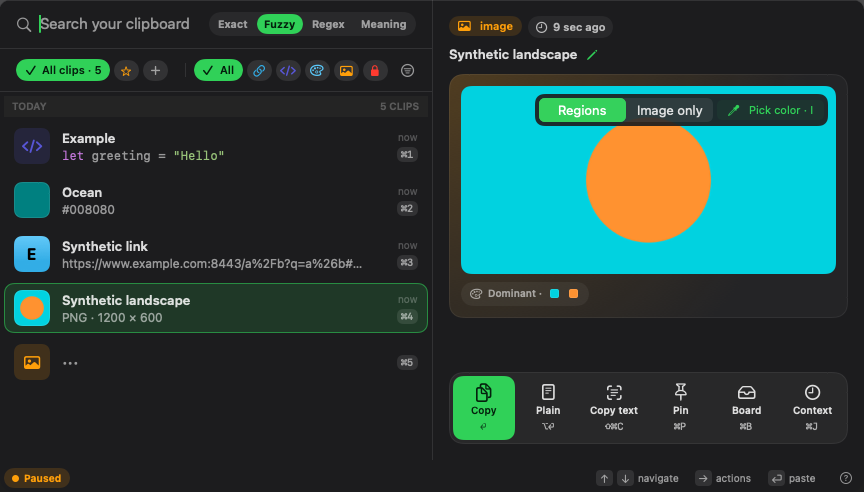
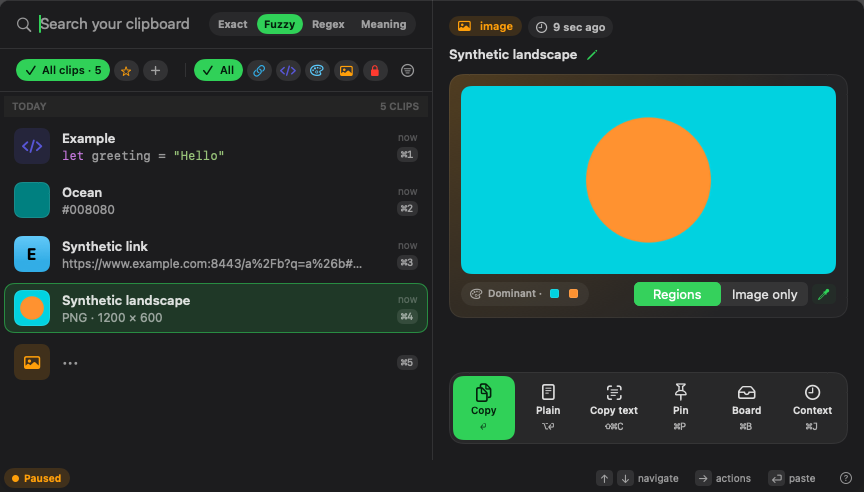
chore(release): prepare v0.11.1

Changed region(s): [[0.5938, 0.1829, 0.9688, 0.2744], [0.7188, 0.5488, 0.9688, 0.6402]]

diff --git a/site/index.html b/site/index.html
@@ -10,13 +10,13 @@
 <meta property="og:title" content="gancho — your clipboard, everywhere" />
 <meta property="og:description" content="A private-by-design clipboard history and snippet library for Mac, iPhone, and iPad. Local-first, encrypted, on-device AI." />
 <meta property="og:url" content="https://gancho.app/" />
-<meta property="og:image" content="https://gancho.app/assets/v0.11.0-release.png" />
+<meta property="og:image" content="https://gancho.app/assets/v0.11.1-release.png" />
 <meta property="og:image:width" content="864" />
 <meta property="og:image:height" content="492" />
-<meta property="og:image:alt" content="Gancho v0.11.0 on macOS" />
+<meta property="og:image:alt" content="Gancho v0.11.1 on macOS" />
 <meta name="twitter:card" content="summary_large_image" />
-<meta name="twitter:image" content="https://gancho.app/assets/v0.11.0-release.png" />
-<meta name="twitter:image:alt" content="Gancho v0.11.0 on macOS" />
+<meta name="twitter:image" content="https://gancho.app/assets/v0.11.1-release.png" />
+<meta name="twitter:image:alt" content="Gancho v0.11.1 on macOS" />
 <link rel="icon" href="assets/gancho-mark.svg" type="image/svg+xml" />
 <link rel="stylesheet" href="styles.css" />
 <style>
@@ -526,21 +526,21 @@
 <section class="band band-tint" id="latest-release">
   <div class="wrap release-grid">
     <div class="release-copy">
-      <span class="kicker" data-i18n="rel.kicker">Disponible · v0.11.0</span>
-      <h2 class="h2" data-i18n="rel.title">El panel rehecho, pegado en serie y agentes a la vista.</h2>
-      <p class="lede" data-i18n="rel.lede">La descarga v0.11.0 rehace el panel, el peek, la Biblioteca, Ajustes y las apps de iPhone y iPad, y agrega formas nuevas de reutilizar lo que copias. Necesita un Mac con Apple Silicon y macOS 26; los Mac con Intel o macOS 15 se quedan en v0.10.2.</p>
+      <span class="kicker" data-i18n="rel.kicker">En preparación · v0.11.1</span>
+      <h2 class="h2" data-i18n="rel.title">Ventanas al frente y un reposo más tranquilo.</h2>
+      <p class="lede" data-i18n="rel.lede">La candidata v0.11.1 abre las ventanas de Gancho delante de la app que usas, con el teclado, y trabaja menos mientras espera en la barra de menús. Aún no está publicada; la descarga actual sigue siendo v0.11.0.</p>
       <ul class="release-list">
-        <li data-i18n="rel.1"><b>Pegado en serie:</b> la pila marca lo que ya pegaste, muestra «3 de 5» y sigue a la vista con el panel cerrado.</li>
-        <li data-i18n="rel.2"><b>Una sola lista de transformaciones:</b> ⌘T reúne acciones, recetas y Pegado inteligente, y ves el antes y el después antes de pegar.</li>
-        <li data-i18n="rel.3"><b>Snippets que se llenan solos:</b> {clipboard}, {date} y {cursor} se insertan desde el editor, y lo que más reutilizas se sugiere como snippet.</li>
-        <li data-i18n="rel.4"><b>Agentes a la vista:</b> cuando un cliente de IA local lee tus clips, un aviso dice cuál, qué leyó y ofrece Revocar.</li>
-        <li data-i18n="rel.5"><b>Secretos en un solo dispositivo:</b> contraseñas y claves ya no se sincronizan, y el Centro de privacidad te deja verificar el cifrado.</li>
+        <li data-i18n="rel.1"><b>Ventanas al frente:</b> Ajustes, la Biblioteca, el Centro de privacidad, Gancho Pro y la revisión del texto reconocido se abren encima de la app que usas y reciben el teclado.</li>
+        <li data-i18n="rel.2"><b>Teclado para la captura de pantalla:</b> Retorno y Escape responden la explicación previa al permiso, no la app en la que escribías.</li>
+        <li data-i18n="rel.3"><b>Un reposo más tranquilo:</b> Gancho sigue la captura, la pantalla compartida y su icono en la barra de menús por eventos, sin temporizadores que lo despierten.</li>
+        <li data-i18n="rel.4"><b>Avisos que respetan VoiceOver:</b> el aviso de telemetría y el selector de tableros no dejan leer ni accionar el panel de atrás hasta que respondas.</li>
+        <li data-i18n="rel.5"><b>Correcciones:</b> los controles de una imagen quedan debajo de ella, el filtro por app conserva su lista y exportar un archivo ya no lo carga entero en memoria.</li>
       </ul>
-      <a class="btn btn-ghost" href="https://github.com/johnny4young/gancho/releases/tag/v0.11.0" data-i18n="rel.cta">Ver notas y descargar v0.11.0</a>
+      <a class="btn btn-ghost" href="https://github.com/johnny4young/gancho/blob/main/docs/releases/v0.11.1.md" data-i18n="rel.cta">Leer las notas de la candidata v0.11.1</a>
     </div>
     <figure class="release-shot">
-      <img src="assets/v0.11.0-release.png" width="864" height="492" loading="lazy" decoding="async" alt="Panel de Gancho con modos de búsqueda y el peek de un enlace / Gancho panel with search modes and a link peek" />
-      <figcaption data-i18n="rel.caption">v0.11.0 en macOS con datos sintéticos; no sustituye las pruebas del DMG publicado.</figcaption>
+      <img src="assets/v0.11.1-release.png" width="864" height="492" loading="lazy" decoding="async" alt="Panel de Gancho con modos de búsqueda y el peek de un enlace / Gancho panel with search modes and a link peek" />
+      <figcaption data-i18n="rel.caption">Candidata v0.11.1 en macOS con datos sintéticos; no es evidencia de una versión publicada.</figcaption>
     </figure>
   </div>
 </section>
@@ -551,20 +551,20 @@
     <div class="sec-head">
       <span class="kicker" data-i18n="evo.kicker">Evolución reciente</span>
       <h2 class="h2" data-i18n="evo.title">Cada versión amplía lo que Gancho puede recordar por ti.</h2>
-      <p class="lede" data-i18n="evo.lede">El sync que ya no se atasca desde 0.10.1 y los clips recuperados de 0.10.2 son la base sobre la que 0.11.0 rehace cada pantalla.</p>
+      <p class="lede" data-i18n="evo.lede">0.10.2 recuperó los clips tras un cambio de llave y 0.11.0 rehízo cada pantalla; sobre esa base, 0.11.1 pule lo que abres desde la barra de menús.</p>
     </div>
     <div class="evolution-grid">
+      <article class="milestone-card">
+        <div class="milestone-meta"><span class="milestone-version">0.11.0</span><span class="milestone-date">3 Nov 2026</span></div>
+        <h3 data-i18n="evo.v0110.t">El panel rehecho, pegado en serie y agentes a la vista.</h3>
+        <p data-i18n="evo.v0110.p">El panel, el peek, la Biblioteca, Ajustes y las apps de iPhone y iPad rehechos, con pegado en serie, una sola lista de Transform y snippets que se llenan solos.</p>
+        <a class="milestone-link" href="#release-0-11-0" data-i18n="evo.v0110.cta">Ver notas de 0.11.0 →</a>
+      </article>
       <article class="milestone-card">
         <div class="milestone-meta"><span class="milestone-version">0.10.2</span><span class="milestone-date">16 Oct 2026</span></div>
         <h3 data-i18n="evo.v0102.t">Clips recuperados tras un cambio de llave.</h3>
         <p data-i18n="evo.v0102.p">Copiar de nuevo repara el archivo, iCloud restaura lo sincronizado y el Centro de privacidad cuenta lo que queda.</p>
         <a class="milestone-link" href="#release-0-10-2" data-i18n="evo.v0102.cta">Ver notas de 0.10.2 →</a>
-      </article>
-      <article class="milestone-card">
-        <div class="milestone-meta"><span class="milestone-version">0.10.1</span><span class="milestone-date">16 Oct 2026</span></div>
-        <h3 data-i18n="evo.v0101.t">El sync de iCloud que no se atasca.</h3>
-        <p data-i18n="evo.v0101.p">Un clip ilegible en tu Mac ya no detiene todas las subidas: se salta, queda pendiente y Problemas recientes lo cuenta.</p>
-        <a class="milestone-link" href="#release-0-10-1" data-i18n="evo.v0101.cta">Ver notas de 0.10.1 →</a>
       </article>
     </div>
   </div>
@@ -1017,6 +1017,10 @@
       <p class="lede" data-i18n="log.lede">Explora cada versión, de la más reciente a la primera. Abre solo el hito que quieras conocer; sus metadatos y artefactos se verifican juntos en CI.</p>
     </div>
     <div class="log">
+      <details class="release-detail" id="release-0-11-0">
+        <summary><span class="log-meta"><span class="ver">0.11.0</span><span class="dt">3 Nov 2026</span></span><span class="release-summary-title" data-i18n="evo.v0110.t">El panel rehecho, pegado en serie y agentes a la vista.</span><svg class="release-chevron i" width="20" height="20" viewBox="0 0 24 24" fill="none" stroke="currentColor" stroke-width="2" stroke-linecap="round" stroke-linejoin="round" aria-hidden="true"><path d="m6 9 6 6 6-6"/></svg></summary>
+        <div class="log-body"><ul><li data-i18n="evo.v0110.p">El panel, el peek, la Biblioteca, Ajustes y las apps de iPhone y iPad rehechos, con pegado en serie, una sola lista de Transform y snippets que se llenan solos.</li><li><a href="https://github.com/johnny4young/gancho/releases/tag/v0.11.0" data-i18n="evo.v0110.cta">Ver notas de 0.11.0 →</a></li></ul></div>
+      </details>
       <details class="release-detail" id="release-0-10-2">
         <summary><span class="log-meta"><span class="ver">0.10.2</span><span class="dt">16 Oct 2026</span></span><span class="release-summary-title" data-i18n="evo.v0102.t">Clips recuperados tras un cambio de llave.</span><svg class="release-chevron i" width="20" height="20" viewBox="0 0 24 24" fill="none" stroke="currentColor" stroke-width="2" stroke-linecap="round" stroke-linejoin="round"><path d="m6 9 6 6 6-6"/></svg></summary>
         <div class="log-body"><ul><li data-i18n="evo.v0102.p">Copiar de nuevo repara el archivo, iCloud restaura lo sincronizado y el Centro de privacidad cuenta lo que queda.</li><li><a href="https://github.com/johnny4young/gancho/releases/tag/v0.10.2" data-i18n="evo.v0102.cta">Ver notas de 0.10.2 →</a></li></ul></div>
@@ -1246,15 +1250,15 @@
       "panel.search": "Search your clipboard…", "panel.foot": "Local · encrypted on this Mac",
       "clip.code.t": "useEffect cleanup", "clip.secret.t": "OpenAI API key", "clip.url.t": "Privacy policy", "clip.color.t": "Brand green", "clip.image.t": "Launch mark", "clip.image.p": "PNG · 248 KB · 1640×1024 · encrypted",
       "trust.1": "Local-first", "trust.2": "Encrypted on device", "trust.3": "No middle servers", "trust.4": "No content telemetry",
-      "rel.kicker": "Available now · v0.11.0", "rel.title": "A rebuilt panel, paste runs and agents in plain view.",
-      "rel.lede": "The v0.11.0 download rebuilds the panel, the peek, the Library, Settings and the iPhone and iPad apps, and adds new ways to reuse what you copy. It needs an Apple Silicon Mac with macOS 26; Macs on Intel or macOS 15 stay on v0.10.2.",
-      "rel.1": "<b>Paste runs:</b> the stack checks what you already pasted, reads “3 of 5” and stays in view with the panel closed.",
-      "rel.2": "<b>One Transform list:</b> ⌘T holds actions, recipes and Smart paste, and shows the before and after before you paste.",
-      "rel.3": "<b>Snippets that fill themselves:</b> {clipboard}, {date} and {cursor} insert from the editor, and what you reuse most is suggested as a snippet.",
-      "rel.4": "<b>Agents in plain view:</b> when a local AI client reads your clips, a notice says which one and what it read, and offers Revoke.",
-      "rel.5": "<b>Secrets on one device:</b> passwords and keys no longer sync, and the Privacy Center lets you verify the encryption.",
-      "rel.cta": "Read notes and download v0.11.0",
-      "rel.caption": "v0.11.0 on macOS with synthetic data; this is not a substitute for testing the published DMG.",
+      "rel.kicker": "In preparation · v0.11.1", "rel.title": "Windows in front, a quieter idle.",
+      "rel.lede": "The v0.11.1 candidate opens Gancho's windows in front of the app you're using, with the keyboard, and does less work while it waits in the menu bar. It isn't published yet; the current download is still v0.11.0.",
+      "rel.1": "<b>Windows in front:</b> Settings, the Library, the Privacy Center, Gancho Pro and the recognized-text review open on top of the app you're using and take the keyboard.",
+      "rel.2": "<b>Keyboard for screen capture:</b> Return and Escape answer the explanation before the permission, not the app you were typing in.",
+      "rel.3": "<b>A quieter idle:</b> Gancho follows capture, screen sharing and its menu-bar icon through events, without timers waking it up.",
+      "rel.4": "<b>Prompts that respect VoiceOver:</b> the telemetry prompt and the board picker keep the panel behind them from being read or used until you answer.",
+      "rel.5": "<b>Fixes:</b> an image's controls sit below it, the app filter keeps its list and exporting an archive no longer loads it all into memory.",
+      "rel.cta": "Read the v0.11.1 candidate notes",
+      "rel.caption": "v0.11.1 candidate on macOS with synthetic data; this is not evidence of a published release.",
       "shots.kicker": "What it looks like", "shots.title": "Real app screens, with synthetic data.",
       "shots.lede": "Captured from the app's UI tests: only Gancho's own window, and only sample content.",
       "shots.1": "Free manual OCR: the image's text appears beside it, ready to copy, open or translate.",
@@ -1266,6 +1270,9 @@
       "shots.n1": "A link's host and path set large, parsed on your Mac without fetching anything. The main button reads Copy because the capture runs without Accessibility; with it, the button names the app it pastes into.",
       "shots.n2": "⌘G shows the history as cards; a color opens with its HEX, RGB, HSL and Swift values and its contrast.",
       "shots.n3": "Optional ambient colour: a faint wash of the selected image's own colour, off by default. An image's peek lists its dominant colours.",
+      "evo.v0110.t": "A rebuilt panel, paste runs and agents in plain view.",
+      "evo.v0110.p": "The panel, the peek, the Library, Settings and the iPhone and iPad apps rebuilt, with paste runs, one Transform list and snippets that fill themselves.",
+      "evo.v0110.cta": "Read 0.11.0 release notes →",
       "evo.v0102.t": "Clips recovered after a key change.",
       "evo.v0102.p": "Copying again repairs the file, iCloud restores what was synced and the Privacy Center counts what's left.",
       "evo.v0102.cta": "Read 0.10.2 release notes →",
@@ -1294,7 +1301,7 @@
       "evo.v081.p": "A Pro purchase survives transient StoreKit gaps, with more predictable CloudKit recovery.",
       "evo.v081.cta": "Read 0.8.1 release notes →",
       "evo.kicker": "Recent evolution", "evo.title": "Every release expands what Gancho can remember for you.",
-      "evo.lede": "The sync that no longer gets stuck since 0.10.1 and the clips recovered in 0.10.2 are the base on which 0.11.0 rebuilds every screen.",
+      "evo.lede": "0.10.2 recovered clips after a key change and 0.11.0 rebuilt every screen; on that base, 0.11.1 polishes what you open from the menu bar.",
       "priv.kicker": "Privacy invariants", "priv.title": "It earns your trust before it earns your convenience.",
       "priv.lede": "gancho treats what you copy as private data. It observes metadata first, vetoes sensitive pasteboards before reading them, and keeps logs and diagnostics content-free.",
       "priv.c1.t": "Veto before read", "priv.c1.p": "Password-manager, transient, concealed, and auto-generated types are rejected before gancho reads a payload.", "priv.c1.tag": "Sensitive → skipped",

diff --git a/scripts/homebrew/gancho.rb b/scripts/homebrew/gancho.rb
@@ -10,7 +10,7 @@
 class Gancho < Formula
   desc "Privacy-first clipboard CLI and local MCP server for Gancho"
   homepage "https://gancho.app/"
-  version "0.11.0"
+  version "0.11.1"
   url "https://github.com/johnny4young/gancho/archive/refs/tags/v#{version}.tar.gz"
   sha256 "0000000000000000000000000000000000000000000000000000000000000000"
   license "MIT"

diff --git a/docs/PRODUCT-TRUTH.md b/docs/PRODUCT-TRUTH.md
@@ -38,7 +38,7 @@ security, architecture, release notes, and App Store copy.
 | Batch panel workflow | `PanelSelection`, `DeletionCoordinator`, `ClipDragPayload` | macOS supports range or discontiguous selection, batch stack/board/delete actions with shared Undo, and a de-duplicated multi-file drag when every selected clip is a safe file reference | Selection, deletion, drag-payload, and focused macOS UI tests |
 | Panel display preferences | `PanelController`, `PanelDisplayPreferences`, macOS General Settings | The Mac panel is solid by default with an optional translucent Liquid Glass background, edge-resizable, offers a Compact/Standard/Large Panel size picker that shows the active preset, remembers manual geometry, and scales its text, tiles and dock glyphs with a persistent three-level preference | Display-preference unit tests, a macOS UI test that measures row height per level, and the persistence smoke |
 | Package topology | `Packages/GanchoKit/Package.swift` | One package exposes eight libraries plus the `gancho` CLI | `ReleaseMetadataTests`, `scripts/check-product-truth.sh` |
-| Current direct download | GitHub release `v0.11.0` and `docs/releases/v0.11.0.md` | The published build 22 requires Apple Silicon and macOS 26; a fresh direct install is Free and local-only until eligible Pro activation. Manual OCR, visual Library cards, saved filters, combined text, secure direct-channel Pro activation, outbound privacy, durable shares, sync receive/upload fixes, the redesigned Mac panel (one toolbar, hero peek with an action dock, motion behind Reduce Motion, optional ambient colour, ⌘G gallery), snippet drafts that survive Library refreshes, a Text size preference that scales the panel, content-free diagnostics for two formerly silent sync failures, text recipes, meaning suggestions, selected context, installed-pair translation, the solid newest-first panel, a Library that stays current while open, and the review's privacy, sync, contrast and keyboard hardening, iCloud uploads that keep moving when one clip's local data cannot be read, and repair of content left under an earlier key (re-sealing on re-capture, iCloud restore of synced clips, a Privacy Center count with local-only removal), the rebuilt panel, peek, Library, Settings and iOS apps, and one encrypted CloudKit field, `Clip.parts`, are included | Published tag/assets and release record, checked separately from source-version and candidate QA gates |
+| Current direct download | GitHub release `v0.11.0` and `docs/releases/v0.11.0.md` | The published build 22 requires Apple Silicon and macOS 26; a fresh direct install is Free and local-only until eligible Pro activation. Manual OCR, visual Library cards, saved filters, combined text, secure direct-channel Pro activation, outbound privacy, durable shares, sync receive/upload fixes, the redesigned Mac panel (one toolbar, hero peek with an action dock, motion behind Reduce Motion, optional ambient colour, ⌘G gallery), snippet drafts that survive Library refreshes, a Text size preference that scales the panel, content-free diagnostics for two formerly silent sync failures, text recipes, meaning suggestions, selected context, installed-pair translation, the solid newest-first panel, a Library that stays current while open, and the review's privacy, sync, contrast and keyboard hardening, iCloud uploads that keep moving when one clip's local data cannot be read, and repair of content left under an earlier key (re-sealing on re-capture, iCloud restore of synced clips, a Privacy Center count with local-only removal), the rebuilt panel, peek, Library, Settings and iOS apps, and one encrypted CloudKit field, `Clip.parts`, are included | Published tag/assets and release record, checked separately from source-version and candidate QA gates The v0.11.1 source (build 23) is a prepared candidate, not a published build: Mac windows opened from the menu bar or a notice come up in front with the keyboard, idle checks follow events instead of timers, and it changes no CloudKit field or database schema. |
 | Direct-download artifact gate | Production entitlements, Developer ID profile validator, release workflow | A sync-capable DMG must embed a non-expired production CloudKit/Push profile whose capabilities match the final signed app; the tag fails if signing, notarization, profile validation, artifact QA, or Sparkle signing is missing | `validate-macos-release-profile.sh`, `qa-release.sh`, and signed artifact checks |
 | Direct-download sync entitlement | `SyncEnablement`, `LicenseActivationService`, `LicenseKeyPurchaseHandler`, public release configuration | Sync requires Pro. Activation, validation, revocation, and seat limits are delegated to Lemon Squeezy without embedding a payments secret. In the published v0.11.0 build, `shouldEnable` (`tier == .pro && iCloudAvailable && hasCloudKitEntitlement`) can turn on live CloudKit for an activated direct install; production schema compatibility and the signed two-Mac matrix remain pending after publication. | Sync enablement truth table, activation-service tests, clean-install activation, packaged-secret checks, and signed two-Mac matrix |
 | Cross-device confidence | Sync tests and completed development-build hardware smoke | The source sync path has passed real-device smoke; repeat the full two-device matrix with a usable entitlement on the signed, profile-backed v0.11.0 release before claiming verified convergence | Tests plus the manual release checklist |

diff --git a/docs/releases/v0.11.1.md b/docs/releases/v0.11.1.md
@@ -1,0 +1,78 @@
+# Gancho v0.11.1 — Windows in front, a quieter idle
+
+Gancho 0.11.1 is a fix release for the Mac. The windows you open from the menu
+bar and from notices come up in front of the app you're using, with the
+keyboard, and Gancho does less work while it waits in the menu bar.
+
+## Highlights
+
+- **Windows in front.** Settings, Library, Privacy Center, Welcome, Clipboard
+  Access, Gancho Pro and the recognized-text review open on top of the app you
+  were using and take the keyboard, instead of opening behind it.
+- **The screen capture explanation answers to the keyboard.** Return and Escape
+  go to it, not to the app you were typing in.
+- **A quieter idle.** Gancho follows capture, screen-share, Private Mode and
+  menu-bar changes as they happen instead of checking on timers, so it wakes up
+  less often at rest. Capture pauses as soon as a screen share starts.
+- **Prompts that hold assistive technologies.** The telemetry consent prompt and
+  the board picker are modal for VoiceOver, so the panel behind them is neither
+  read nor acted on until you answer.
+- **Fixes.**
+  - An image's Regions and Pick color controls sit below the picture.
+  - The source-app filter keeps its list after an interrupted read.
+  - Exporting an archive no longer holds every file in memory while it checks
+    it.
+  - When history can't be saved to disk, the Library and the All clips chip
+    still show their counts.
+
+See the complete
+[changelog](https://github.com/johnny4young/gancho/blob/main/CHANGELOG.md)
+for all changes and fixes.
+
+## Install or update
+
+Download the [signed DMG](https://github.com/johnny4young/gancho/releases/download/v0.11.1/Gancho-0.11.1.dmg)
+and its [SHA-256 sidecar](https://github.com/johnny4young/gancho/releases/download/v0.11.1/Gancho-0.11.1.dmg.sha256).
+Compare the downloaded bytes with the sidecar before installing. Existing direct
+installs can use the signed Sparkle update; Homebrew's cask follows the published
+artifact. If assets or the update feed are not available yet, publication is not
+complete—do not substitute an older candidate from another source.
+
+Gancho requires macOS 26 or later on Apple Silicon. The iPhone and iPad targets
+require iOS 26 or later and are not distributed by the DMG or Homebrew cask.
+
+## Availability
+
+Local history remains free. Pro is a separate direct purchase and unlocks the
+documented higher limits, on-device intelligence, and encrypted iCloud sync.
+The App Store and TestFlight channels remain in preparation.
+
+## Release verification
+
+This note describes a prepared candidate; v0.11.1 is not published until the
+tagged release workflow completes and this section records the published
+commit, build number, workflow run and DMG checksum.
+
+The release workflow must pass lint, unit tests and both app builds before
+packaging. Publication requires Developer ID signing, hardened runtime,
+notarization/stapling, Gatekeeper acceptance, the production CloudKit/Push
+profile, a SHA-256 sidecar and an EdDSA-signed Sparkle appcast. These automated
+checks do not certify physical-device behavior.
+
+This release changes no CloudKit field and no database schema. The signed
+two-Mac matrix, VoiceOver, screen-OCR permission/display checks and real iPhone
+and iPad acceptance remain pending; run them on the released bytes with synthetic
+or disposable data and keep backups. The release captures are 1x renders from
+the hosted UI tests, which run without Accessibility, so their main button reads
+Copy.
+
+## Known limitations
+
+- A clip made with Merge double copies is plain text, so it loses any formatting.
+- Image peeks show no scroll bar; the wheel and the trackpad still scroll them.
+- Text recognized in images (OCR) stays on the Mac that recognized it; it is
+  not synced to your other devices.
+- Backups made with Settings › General › Back up history… do not include
+  boards, board membership or text recipes yet, and recipes are never synced.
+- This DMG distributes macOS only. iPhone/iPad installation requires a separate
+  distribution path; App Store and TestFlight availability is not implied.

diff --git a/README.md b/README.md
@@ -17,14 +17,16 @@
 ![Swift 6.2](https://img.shields.io/badge/Swift-6.2-orange)
 
 **Status: public v0.11.0; in active development toward 1.0.**
-**Source version: v0.11.0.** The published direct download requires an Apple
-Silicon Mac with macOS 26 (build 22); Macs on Intel or macOS 15 keep v0.10.2.
-Local history and manual OCR are Free; Pro activation through Lemon Squeezy is
-included.
+**Source version: v0.11.1 (unreleased).** The published v0.11.0 direct download
+requires an Apple Silicon Mac with macOS 26 (build 22); Macs on Intel or macOS 15
+keep v0.10.2. Local history and manual OCR are Free; Pro activation through Lemon
+Squeezy is included. The v0.11.1 source opens Gancho's windows in front of the
+app you're using, with the keyboard, and wakes up less often while idle; it is
+not yet a published build. See its [release notes](docs/releases/v0.11.1.md).
 
-![The Gancho panel with search modes, board and kind chips, and a link peek above its action dock](site/assets/v0.11.0-release.png)
+![The Gancho panel with search modes, board and kind chips, and a link peek above its action dock](site/assets/v0.11.1-release.png)
 
-*v0.11.0 with synthetic fixtures.*
+*v0.11.1 candidate with synthetic fixtures; this is not evidence of a published release.*
 
 [Download v0.11.0](https://github.com/johnny4young/gancho/releases/tag/v0.11.0)
 for a rebuilt panel, peek, Library and Settings, paste runs, one Transform list,

diff --git a/CHANGELOG.md b/CHANGELOG.md
@@ -7,6 +7,8 @@ and release versions follow [Semantic Versioning](https://semver.org/spec/v2.0.0
 
 ## [Unreleased]
 
+## [0.11.1] - 2026-11-07
+
 ### Changed
 
 - On the Mac, Gancho wakes up about 40% less often while it sits idle in the
